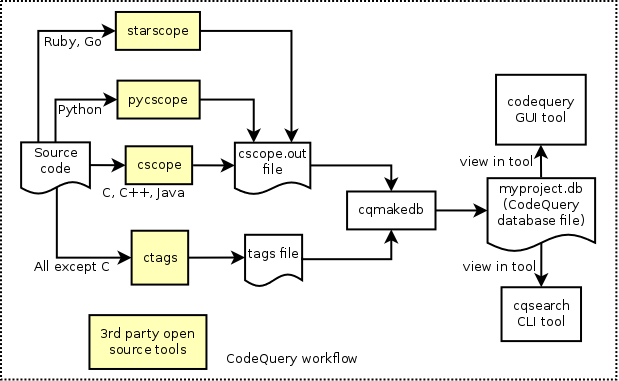
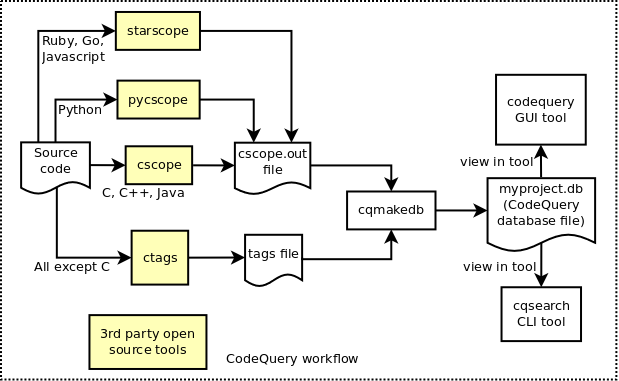
0.17.0

diff --git a/README.md b/README.md
@@ -1,7 +1,7 @@
 ![CodeQuery](doc/logotitle.png)
 ===============================
 
-This is a tool to index, then query or search C, C++, Java, Python, Ruby and Go source code.
+This is a tool to index, then query or search C, C++, Java, Python, Ruby, Go and Javascript source code.
 
 It builds upon the databases of [cscope](http://cscope.sourceforge.net/) and [Exuberant ctags](http://ctags.sourceforge.net/).
 
@@ -9,14 +9,16 @@ The databases of *cscope* and *ctags* would be processed by the *cqmakedb* tool 
 
 The CodeQuery database file can be viewed and queried using the *codequery* GUI tool.
 
-[![Build Status](https://api.travis-ci.org/ruben2020/codequery.svg)](https://travis-ci.org/ruben2020/codequery)
+[![Build Status](https://api.travis-ci.org/ruben2020/codequery.svg)](https://travis-ci.org/ruben2020/codequery)     [![Coverity Status](https://scan.coverity.com/projects/10066/badge.svg)](https://scan.coverity.com/projects/ruben2020-codequery)
       
 
-## Latest version = 0.16.0
+## Latest version = 0.17.0
 
 Windows and Linux binaries available here for download: [CodeQuery@sourceforge downloads](https://sourceforge.net/projects/codequery/files/)
 
-To build on Linux, please read the [INSTALL-LINUX](doc/INSTALL-LINUX.md) file. The latest git version (HEAD on master branch) can be used.
+To build on Linux, please read the [INSTALL-LINUX](doc/INSTALL-LINUX.md) file.
+
+On Mac, the software can be installed through [Brew](http://brew.sh/) using `brew install codequery`.
 
 Please read [NEWS](NEWS.txt) to find out more.
 
@@ -35,7 +37,7 @@ CodeQuery is a project that attempts to combine the features available from both
 
 In addition, [pycscope](https://github.com/portante/pycscope) is used to add support for Python, in place of cscope.
 
-In addition, [starscope](https://github.com/eapache/starscope) is used to add support for Ruby and Go, in place of cscope.
+In addition, [starscope](https://github.com/eapache/starscope) is used to add support for Ruby, Go and Javascript, in place of cscope.
 
 
 ## What features does CodeQuery have?
@@ -82,6 +84,11 @@ Here's a function call graph based on the search term of "updateFilePathLabel". 
 ![Visualization screenshot](doc/screenshot2.png)
 
 
+## Are other editors like vim or emacs supported?
+
+Yes! There is a vim plugin for CodeQuery called [vim-codequery](https://github.com/devjoe/vim-codequery) by [devjoe](https://github.com/devjoe). We welcome contributors to develop plugins for other editors too.
+
+
 ## What does it cost? How is it licensed?
 
 It's freeware and free open source software.
@@ -98,7 +105,7 @@ Yes. However, donations are welcomed.
 
 ## Which platforms are supported?
 
-It has been tested on Windows 7 64-bit, Windows XP, Mac OS X, Ubuntu and Fedora Linux 64-bit and, Ubuntu and Fedora Linux 32-bit.
+It has been tested on Windows 7 64-bit, Windows XP 32-bit, Mac OS X, Ubuntu and Fedora Linux 64-bit and, Ubuntu and Fedora Linux 32-bit.
 
 Contributions are welcomed to attempt ports to other operating systems.
 
@@ -112,7 +119,7 @@ Contributions are welcomed to update or provide new translations.
 
 ## How to install it?
 
-On Windows, EXE setup packages will be provided here: [CodeQuery@sourceforge downloads](https://sourceforge.net/projects/codequery/files/). The EXE setup package shall also contain cscope.exe, ctags.exe and the required DLLs. So, everything you need is in one package. However, [pycscope](https://github.com/portante/pycscope) (optional - only for Python) and [starscope](https://github.com/eapache/starscope) (optional - only for Ruby and Go) are not bundled together with this setup package and need to be installed separately.
+On Windows, EXE setup packages will be provided here: [CodeQuery@sourceforge downloads](https://sourceforge.net/projects/codequery/files/). The EXE setup package shall also contain cscope.exe, ctags.exe and the required DLLs. So, everything you need is in one package. However, [pycscope](https://github.com/portante/pycscope) (optional - only for Python) and [starscope](https://github.com/eapache/starscope) (optional - only for Ruby, Go and Javascript) are not bundled together with this setup package and need to be installed separately.
 
 On Linux, tar.gz, RPM and Debian package installations will be provided here: [CodeQuery@sourceforge downloads](https://sourceforge.net/projects/codequery/files/).
 
@@ -137,7 +144,7 @@ Please read the HOWTO file provided for each platform. The workflow looks like t
 
 CodeQuery cannot do this at the moment.
 
-To generate whole-program call graphs, please use [GNU cflow](https://www.gnu.org/software/cflow/) or [CodeViz](http://www.csn.ul.ie/~mel/projects/codeviz/) for C and C++. For Java, there is [Javashot](http://code.google.com/p/javashot/). 
+To generate whole-program call graphs, please use [GNU cflow](https://www.gnu.org/software/cflow/) or [CodeViz](https://github.com/petersenna/codeviz) for C and C++. For Java, there is [Javashot](http://code.google.com/p/javashot/). 
 
 To generate whole-program UML class diagrams for various object-oriented languages, please use [tags2uml](https://github.com/ruben2020/tags2uml). 
 
@@ -167,7 +174,7 @@ Website: [CodeQuery website](https://github.com/ruben2020/codequery)
 * Fix bugs (see Issues tab)
 * Update translations (Deutsch, Francais, Japanese etc.)
 * Port to other platforms
-* Write plugins for Vim, emacs, eclipse, Notepad++ etc.
+* Write plugins for emacs, eclipse, Notepad++ etc.
 * Write a web-based interface to CodeQuery's database
 * Add support for other languages e.g. Javascript
 
@@ -177,6 +184,10 @@ Website: [CodeQuery website](https://github.com/ruben2020/codequery)
 [ruben2020](https://github.com/ruben2020)    
 [naseer](https://github.com/naseer)    
 [bruno-](https://github.com/bruno-)    
+[devjoe](https://github.com/devjoe)    
+[jonashaag](https://github.com/jonashaag)    
+[ilovezfs](https://github.com/ilovezfs)    
+[JCount](https://github.com/JCount)    
 (More welcomed)
 
 
@@ -186,13 +197,14 @@ We thank the people behind the following projects:
 [cscope](http://cscope.sourceforge.net/) - our database is derived from this   
 [Exuberant ctags](http://ctags.sourceforge.net/)- our database is derived from this   
 [pycscope](https://github.com/portante/pycscope) - our database (for Python) is derived from this    
-[starscope](https://github.com/eapache/starscope) - our database (for Ruby and Go) is derived from this    
+[starscope](https://github.com/eapache/starscope) - our database (for Ruby, Go and Javascript) is derived from this    
 [sqlite3](http://www.sqlite.org/) - our database is using this format    
 [CMake](http://www.cmake.org/) - cross-platform build toolchain for CodeQuery    
 [Qt open source](http://qt-project.org/) - GUI toolkit used to build CodeQuery    
 [optlist](http://michael.dipperstein.com/optlist/index.html) - cqmakedb uses this to parse command line options   
 [showgraph](http://code.google.com/p/showgraph/) - visualization done using this library    
 [scintilla](http://www.scintilla.org/) - our code editing widget (in the form of QScintilla)    
+[vim-codequery](https://github.com/devjoe/vim-codequery) - vim plugin for CodeQuery    
 [Axialis](http://www.axialis.com/iconworkshop) - free images for CodeQuery and this website    
 [brew](http://brew.sh/) - binaries for Mac here    
 

diff --git a/doc/HOWTO-LINUX.md b/doc/HOWTO-LINUX.md
@@ -10,39 +10,33 @@ This HOWTO guide applies to Linux only
 ```bash
 cd ~/projects/myproject/src
 ```
-
 2. Create a cscope.files file with all the C/C++ source files listed in it. Files with [inline assembly code](http://en.wikipedia.org/wiki/Inline_assembler) should be excluded from this list.
 ```bash
-find -iname "*.c"    > ./cscope.files
-find -iname "*.cpp" >> ./cscope.files
-find -iname "*.cxx" >> ./cscope.files
-find -iname "*.cc " >> ./cscope.files
-find -iname "*.h"   >> ./cscope.files
-find -iname "*.hpp" >> ./cscope.files
-find -iname "*.hxx" >> ./cscope.files
-find -iname "*.hh " >> ./cscope.files
+find . -iname "*.c"    > ./cscope.files
+find . -iname "*.cpp" >> ./cscope.files
+find . -iname "*.cxx" >> ./cscope.files
+find . -iname "*.cc " >> ./cscope.files
+find . -iname "*.h"   >> ./cscope.files
+find . -iname "*.hpp" >> ./cscope.files
+find . -iname "*.hxx" >> ./cscope.files
+find . -iname "*.hh " >> ./cscope.files
 ```
-
 3. Create a cscope database like this (add `k`, if you don't want standard include paths like for stdio.h):
 ```bash
 cscope -cb
 ```
-
 4. Create a ctags database like this.
 ```bash
 ctags --fields=+i -n -R -L ./cscope.files
 ```
-
 5. Run cqmakedb to create a CodeQuery database out of the cscope and ctags databases, like this:
 ```bash
 cqmakedb -s ./myproject.db -c ./cscope.out -t ./tags -p
 ```
-
 6. Open myproject.db using the CodeQuery GUI tool by running the following. Wild card search (* and ?) supported if Exact Match is switched off. Or use cqsearch, the CLI-version of CodeQuery (type `cqsearch -h` for more info).
 ```bash
 codequery
 ```
-
 Use `cqmakedb -h` to get help on cqmakedb command line arguments.
 
 
@@ -53,32 +47,26 @@ Use `cqmakedb -h` to get help on cqmakedb command line arguments.
 ```bash
 cd ~/projects/myproject/src
 ```
-
 2. Create a cscope.files file with all the Java source files listed in it.
 ```bash
-find -iname "*.java" > ./cscope.files
+find . -iname "*.java" > ./cscope.files
 ```
-
 3. Create a cscope database like this:
 ```bash
 cscope -cbR
 ```
-
 4. Create a ctags database like this:
 ```bash
 ctags --fields=+i -n -R -L ./cscope.files
 ```
-
 5. Run cqmakedb to create a CodeQuery database out of the cscope and ctags databases, like this:
 ```bash
 cqmakedb -s ./myproject.db -c ./cscope.out -t ./tags -p
 ```
-
 6. Open myproject.db using the CodeQuery GUI tool by running the following. Wild card search (* and ?) supported if Exact Match is switched off. Or use cqsearch, the CLI-version of CodeQuery (type `cqsearch -h` for more info).
 ```bash
 codequery
 ```
-
 Use `cqmakedb -h` to get help on cqmakedb command line arguments.
 
 
@@ -89,68 +77,57 @@ Use `cqmakedb -h` to get help on cqmakedb command line arguments.
 ```bash
 cd ~/projects/myproject/src
 ```
-
 2. Create a cscope.files file with all the Python source files listed in it.
 ```bash
-find -iname "*.py"    > ./cscope.files
+find . -iname "*.py"    > ./cscope.files
 ```
-
 3. Create a cscope database like this:
 ```bash
 pycscope -i ./cscope.files
 ```
-
 4. Create a ctags database like this.
 ```bash
 ctags --fields=+i -n -R -L ./cscope.files
 ```
-
 5. Run cqmakedb to create a CodeQuery database out of the cscope and ctags databases, like this:
 ```bash
 cqmakedb -s ./myproject.db -c ./cscope.out -t ./tags -p
 ```
-
 6. Open myproject.db using the CodeQuery GUI tool by running the following. Wild card search (* and ?) supported if Exact Match is switched off. Or use cqsearch, the CLI-version of CodeQuery (type `cqsearch -h` for more info).
 ```bash
 codequery
 ```
-
 Use `cqmakedb -h` to get help on cqmakedb command line arguments.
 
 
 
-## HOW TO USE CODEQUERY WITH RUBY AND GO CODE?
+## HOW TO USE CODEQUERY WITH RUBY, GO AND JAVASCRIPT CODE?
 
 1. Change directory to the base folder of your source code like this:
 ```bash
 cd ~/projects/myproject/src
 ```
-
-2. Create a cscope.files file with all the Ruby or Go source files listed in it.
+2. Create a cscope.files file with all the Ruby, Go or Javascript source files listed in it.
 ```bash
-find -iname "*.rb"    > ./cscope.files
-find -iname "*.go"    > ./cscope.files
+find . -iname "*.rb"    > ./cscope.files
+find . -iname "*.go"    > ./cscope.files
+find . -iname "*.js"    > ./cscope.files
 ```
-
 3. Create a cscope database like this:
 ```bash
 starscope -e cscope
 ```
-
 4. Create a ctags database like this.
 ```bash
 ctags --fields=+i -n -R -L ./cscope.files
 ```
-
 5. Run cqmakedb to create a CodeQuery database out of the cscope and ctags databases, like this:
 ```bash
 cqmakedb -s ./myproject.db -c ./cscope.out -t ./tags -p
 ```
-
 6. Open myproject.db using the CodeQuery GUI tool by running the following. Wild card search (* and ?) supported if Exact Match is switched off. Or use cqsearch, the CLI-version of CodeQuery (type `cqsearch -h` for more info).
 ```bash
 codequery
 ```
-
 Use `cqmakedb -h` to get help on cqmakedb command line arguments.
 

diff --git a/doc/INSTALL-LINUX.md b/doc/INSTALL-LINUX.md
@@ -1,7 +1,7 @@
 HOW TO INSTALL CODEQUERY IN LINUX
 =================================
 
-This INSTALL guide applies to Linux only
+This INSTALL guide applies to Linux and Mac only
 
 (For Windows, a SETUP EXE package will be provided)
 
@@ -17,32 +17,28 @@ This INSTALL guide applies to Linux only
 [pycscope](https://github.com/portante/pycscope)    
 [QScintilla](http://www.riverbankcomputing.com/software/qscintilla/intro)    
 
-In Ubuntu, do the following:    
+In Ubuntu or Linux Mint, do the following:    
 ```bash
 sudo apt-get install g++ git cmake sqlite3 libsqlite3-dev qt4-dev-tools libqscintilla2-dev cscope exuberant-ctags rpm
 ```
-In Fedora, do the following:    
+In Fedora or Debian, do the following:    
 ```bash
-sudo yum install gcc-c++ git cmake sqlite sqlite-devel qt-devel qscintilla-devel cscope ctags rpm-build
+sudo dnf install gcc-c++ git cmake sqlite sqlite-devel qt-devel qscintilla-devel cscope ctags rpm-build
 ```
-
 2. Download the repository as a ZIP file from github or clone git repository:
 [codequery@github](https://github.com/ruben2020/codequery)
 ```bash
 git clone https://github.com/ruben2020/codequery.git
 ```
-
 3. Unzip to a directory and change to that directory.
 ```bash
 cd ~/workspace/codequery
 ```
-
 4. Create a directory called build and change to it.
 ```bash
 mkdir build
 cd build
 ```
-
 5. Run cmake, make and make install.
 ```bash
 cmake -G "Unix Makefiles" ..
@@ -55,6 +51,5 @@ cmake -DCMAKE_INSTALL_PREFIX="/home/johndoe/tools/" -G "Unix Makefiles" ..
 make
 make install
 ```
-
 6. Please read [HOWTO-LINUX](HOWTO-LINUX.md) to learn how to use this software.
 
